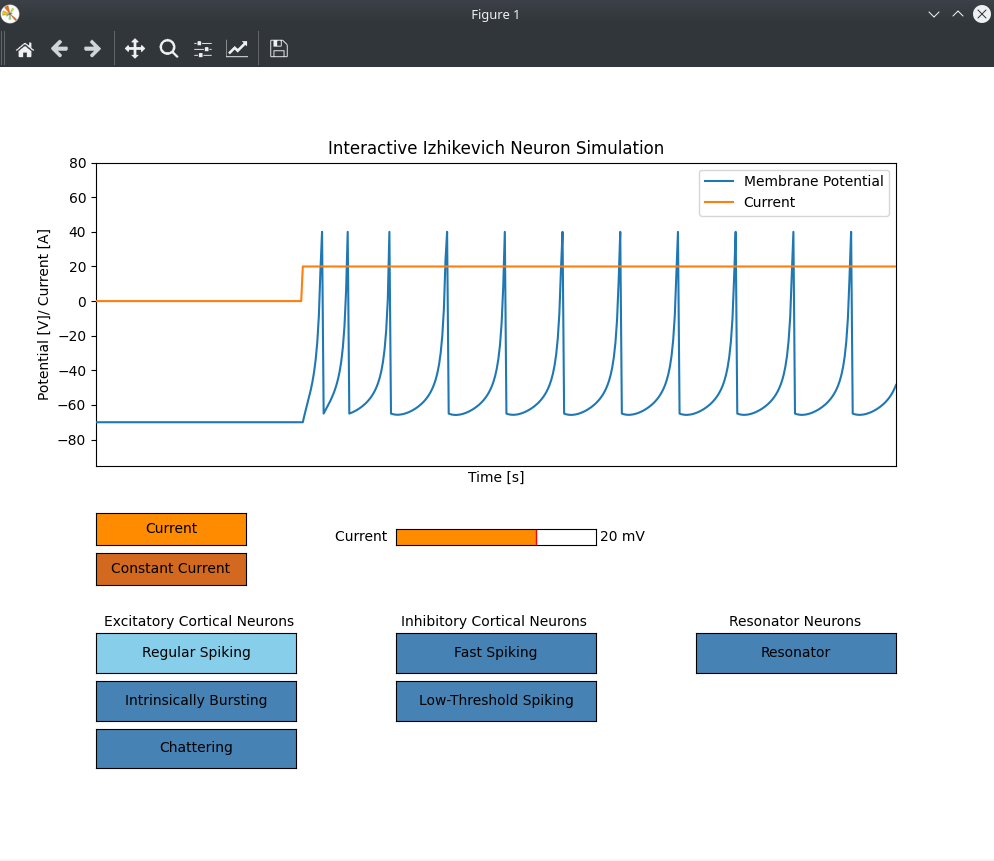
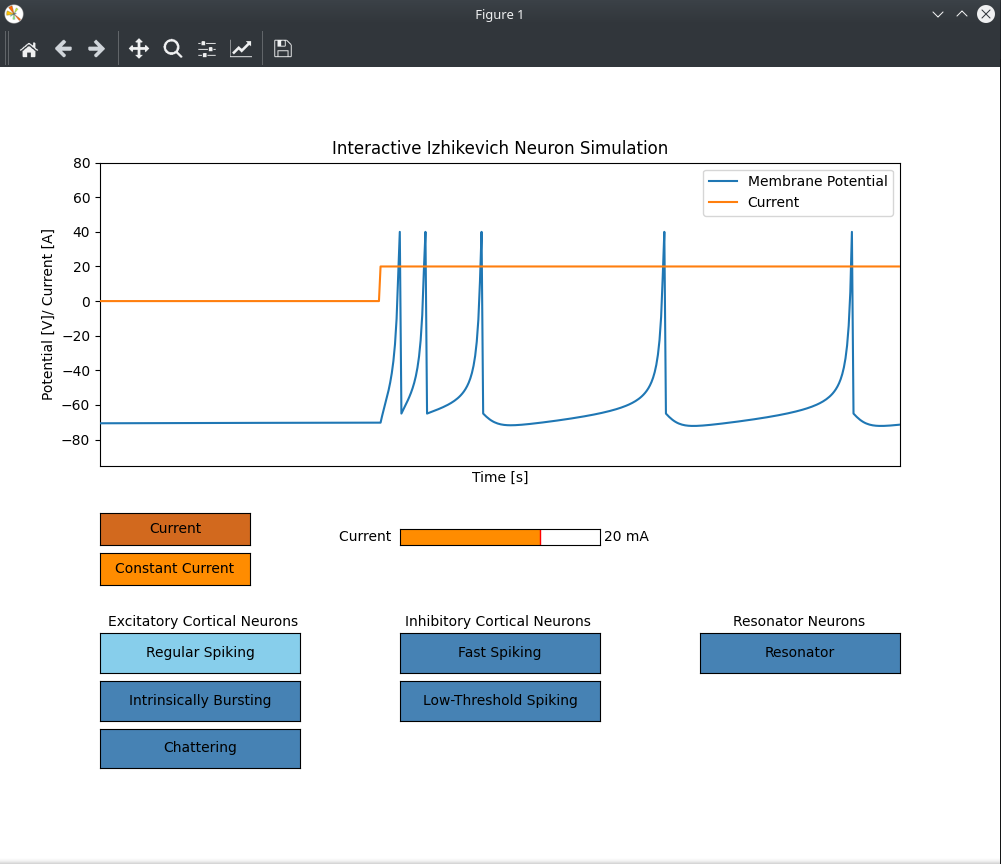
Adds the Izhikevich Model and the interactive GUI.

diff --git a/izhikevich-model/plot-interactiveIzhikevich.py b/izhikevich-model/plot-interactiveIzhikevich.py
@@ -1,0 +1,224 @@
+import numpy as np
+import matplotlib.pylab as plt
+from izhikevichModel import izhikevichModel
+from matplotlib import animation
+from matplotlib.pyplot import  Button
+from matplotlib.widgets import Slider
+
+#a describes the time scale of the recovery variable u. Smaller values result in slower recovery. a = 0.02 is a typical value
+a = 0.02
+
+# Parameter b describes the sensitivity of the recovery variable u to the subthreshold fluctuations of the membran potential v.
+# Greater values couple v and u more strongly resulting in possible subthreshold oscillations and low threshold spiking. b = 0.2 is a typical value.
+b = 0.2
+
+# The parameter c describes the after-spike reset value of the membrane potential v caused by the fast high-threshold K+ conductances. 
+# A typical value is c = -65 mV.
+c = -65.0
+
+# The parameter d describes after-spike reset of the recovery variable u caused by slow high-threshold Na+ and K+ conductances.
+# A typical value is d = 2.
+d = 8.0
+
+# Parameter v is the membrane potential. A typical value is -70mV
+v0 = -70.0
+
+# Parameter u represents a membrane recovery variable, which accounts for for the activation of K+ ionic currents and inactivation of Na+ ionic currents
+u0 = -20.0
+
+# Parameter I is the current that was inserted in the neuron
+I = 20.0
+
+l = 2000            # simulation length [ms]
+dt = 0.2            # step size [ms]
+time = np.arange(0, l , dt)
+index = 0
+I_val = np.zeros(len(time))
+I_val[0: len(time) - 1]  = 0.0
+v = izhikevichModel(a, b, c, d, I_val, v0, u0, dt)
+constantC = False
+#Measurements that are visible at a time
+visible = 500
+
+def plot_Izhikevich():
+
+    #Initalize the plot configurations
+    fig, ax = plt.subplots(figsize=(10, 8))
+    line1, = ax.plot(range(visible), range(visible))
+    line1.set_label("Membrane Potential")
+    line2, = ax.plot(range(visible), range(visible))
+    line2.set_label("Current")
+    
+    ax.set_ylim(-95, 80)
+    ax.set_xlim(0,visible -1)
+
+    plt.title("Interactive Izhikevich Neuron Simulation")
+    fig.subplots_adjust(left=0.1, bottom=0.5)
+    
+    # removes the ticks on the x axes
+    plt.tick_params(
+    axis ='x',          # changes apply to the x-axis
+    which ='both',      # both major and minor ticks are affected
+    bottom = False,      # ticks along the bottom edge are off
+    top = False,         # ticks along the top edge are off
+    labelbottom = False) # labels along the bottom edge are off
+    
+   
+    # add legend
+    plt.legend(loc="upper right")
+
+    # add axis labels
+    plt.ylabel("Potential [V]/ Current [A]")
+    plt.xlabel("Time [s]")
+   
+   
+    #puts the button un its position
+    Current_button_ax = plt.axes([0.1, 0.4, 0.15, 0.04])
+
+    #Defines the CURRENT button
+    Current_button = Button(
+        Current_button_ax,
+        'Current',
+        color='chocolate',
+        hovercolor='0.975')    
+    
+    #event when the button was clicked
+    def Current_button_was_clicked(event):
+        I_val[index+visible-1] = I
+        global v
+        v = izhikevichModel(a, b, c, d, I_val, v0, u0, dt)
+        
+    Current_button.on_clicked(Current_button_was_clicked)
+    
+      #puts the button un its position
+    ConstantCurrent_button_ax = plt.axes([0.1, 0.35, 0.15, 0.04])
+
+    #Defines the CURRENT button
+    ConstantCurrent_button = Button(
+        ConstantCurrent_button_ax,
+        'Constant Current',
+        color='chocolate',
+        hovercolor='0.975')    
+    
+    
+    #event when the button was clicked
+    def ConstantCurrent_button_was_clicked(event):
+        global constantC
+        global v
+        if (constantC == False):
+            I_val[index +visible-1: len(time) - 1]  = I
+         
+            v = izhikevichModel(a, b, c, d, I_val, v0, u0, dt)
+            constantC = True
+            ConstantCurrent_button.color = 'darkorange'
+        else:
+            I_val[index +visible-1: len(time) - 1]  = 0.0
+         
+            v = izhikevichModel(a, b, c, d, I_val, v0, u0, dt)
+            constantC = False
+            ConstantCurrent_button.color = 'chocolate'
+    
+    ConstantCurrent_button.on_clicked(ConstantCurrent_button_was_clicked)
+    
+    # Create axes for Current slider
+    ax_Current = fig.add_axes([0.4, 0.4, 0.2, 0.02])
+    ax_Current.spines['top'].set_visible(True)
+    ax_Current.spines['right'].set_visible(True)
+    
+    #Create slider
+    s_Current = Slider(ax=ax_Current, label='Current ', valmin=-50, valmax=50, valinit=20, valfmt='%d mA', facecolor='darkorange')
+
+    #Slider event
+    def sliderUpdate(val):
+        global I
+        global constantC
+        I = val
+        if (constantC):
+            constantC = False
+            ConstantCurrent_button_was_clicked(None)
+        
+    s_Current.on_changed(sliderUpdate)
+    
+    #updates for the animation
+    def update(i):
+        global index
+        global v
+        
+        #Resets the graph
+        if(i == len(v)-visible-1):
+            I_val[0: len(time) - 1]  = 0.0
+            v = izhikevichModel(a, b, c, d, I_val, v0, u0, dt)     
+            
+        index = i
+        newData=v[i:i+visible]
+        line1.set_ydata(newData)
+        line2.set_ydata(I_val[i:i+visible])
+        return [line1,line2]
+    
+    anim = animation.FuncAnimation(fig, update, frames=len(v)-visible, interval=40, blit=True)
+
+    neuronButtons_ax={}
+    neuronButtons={}
+    neuronValues={}
+
+    #All Neuron Buttons
+    ax.text(5, -188, "Excitatory Cortical Neurons")
+    neuronButtons_ax['RS'] = plt.axes([0.1, 0.24, 0.2, 0.05])
+    neuronButtons['RS'] = Button(neuronButtons_ax['RS'], 'Regular Spiking', color='skyblue', hovercolor='0.975')
+    neuronValues['RS'] = [0.1,0.2,-65.0,8.0]
+    
+    neuronButtons_ax['IB'] = plt.axes([0.1, 0.18, 0.2, 0.05])
+    neuronButtons['IB'] = Button(neuronButtons_ax['IB'], 'Intrinsically Bursting', color='steelblue', hovercolor='0.975')
+    neuronValues['IB'] = [0.02,0.2,-55.0,4.0]
+
+    neuronButtons_ax['CH'] = plt.axes([0.1, 0.12, 0.2, 0.05])
+    neuronButtons['CH'] = Button(neuronButtons_ax['CH'], 'Chattering', color='steelblue', hovercolor='0.975')
+    neuronValues['CH'] = [0.02,0.2,-50.0,2.0]
+ 
+     
+    ax.text(190, -188, "Inhibitory Cortical Neurons")
+    neuronButtons_ax['FS'] = plt.axes([0.4, 0.24, 0.2, 0.05])
+    neuronButtons['FS'] = Button(neuronButtons_ax['FS'], 'Fast Spiking', color='steelblue', hovercolor='0.975')
+    neuronValues['FS'] = [0.1,0.2,-65.0,2.0]
+    
+    neuronButtons_ax['LTS'] = plt.axes([0.4, 0.18, 0.2, 0.05])
+    neuronButtons['LTS'] = Button(neuronButtons_ax['LTS'], 'Low-Threshold Spiking', color='steelblue', hovercolor='0.975')
+    neuronValues['LTS'] = [0.02,0.25,-65.0,2.0]
+
+    ax.text(395, -188, "Resonator Neurons")    
+    neuronButtons_ax['RZ'] = plt.axes([0.7, 0.24, 0.2, 0.05])
+    neuronButtons['RZ'] = Button(neuronButtons_ax['RZ'], 'Resonator', color='steelblue', hovercolor='0.975')
+    neuronValues['RZ'] = [0.1,0.26,-65.0,8.0]
+
+    #Changes the model's configuration
+    def changeNeuron(event):
+        for btn in ["RS", "IB", "CH", "FS", "LTS", "RZ"]:
+            if neuronButtons[btn].ax == event.inaxes:
+                global a, b, c, d, v0, u0, v
+                a = neuronValues[btn][0]
+                b = neuronValues[btn][1]
+                c = neuronValues[btn][2]
+                d = neuronValues[btn][3]
+                v = izhikevichModel(a, b, c, d, I_val, v0, u0, dt)
+                
+    #Changes the button color of the selected button
+    def changeColor(event):
+        for btn in ["RS", "IB", "CH", "FS", "LTS", "RZ"]:
+            if neuronButtons[btn].ax == event.inaxes:
+                neuronButtons[btn].ax.set_facecolor('skyblue')
+                neuronButtons[btn].color = 'skyblue'
+            else:
+                neuronButtons[btn].ax.set_facecolor('steelblue')
+                neuronButtons[btn].color = 'steelblue'
+    
+    #Initalizes the button fuctions
+    for btn in ["RS", "IB", "CH", "FS", "LTS", "RZ"]:
+        neuronButtons[btn].on_clicked(changeColor)
+        neuronButtons[btn].on_clicked(changeNeuron)               
+    
+    #plots the graph
+    plt.show()
+    
+if (__name__ == '__main__'):
+    plot_Izhikevich()
+ 

diff --git a/izhikevich-model/izhikevichModel.py b/izhikevich-model/izhikevichModel.py
@@ -1,0 +1,37 @@
+import numpy as np
+from numpy import *
+from numpy.random import *
+import pylab as pl
+import matplotlib as plt
+
+
+# Source for the code is ......
+#
+#
+def izhikevichModel (a , b, c , d , I, v0, u0, dt):
+    spikeValue = 40     # [mV] the maximum of the spike
+    threshold = 30      #threshold for spiking activity
+
+    #The parameter v is the voltage membran
+    v = np.zeros(len(I))
+
+    #The parameter u is a membrane recovery variable
+    u = np.zeros(len(I))
+
+    v[0] = v0 #in mV
+    u[0] = u0 #in mV
+
+    for i in range(1, len(I)):
+
+        if v[i - 1] < threshold:
+            dv =  0.04 * pow(v[i - 1], 2) + 5 * v[i - 1] + 140 - u[i - 1] + I[i -1]
+            v[i] = v[i - 1] + (dv * dt)
+
+            du = a * (b * v[i - 1] - u[i - 1])
+            u[i] = u[i - 1] + (du * dt)
+        else:
+            v[i-1] = spikeValue
+            v[i] = c                #reset the membrane voltage
+            u[i] = u[i - 1] + d     #reset the recovery variable
+    return v
+

diff --git a/README.md b/README.md
@@ -9,7 +9,7 @@ To run the program on your local machine clone the repository.
 
 ### Prerequisites
 
-To run the program you need to install python3 and python matplotlib.
+You need to install python3 and python matplotlib.
 
 ### Installing
 
